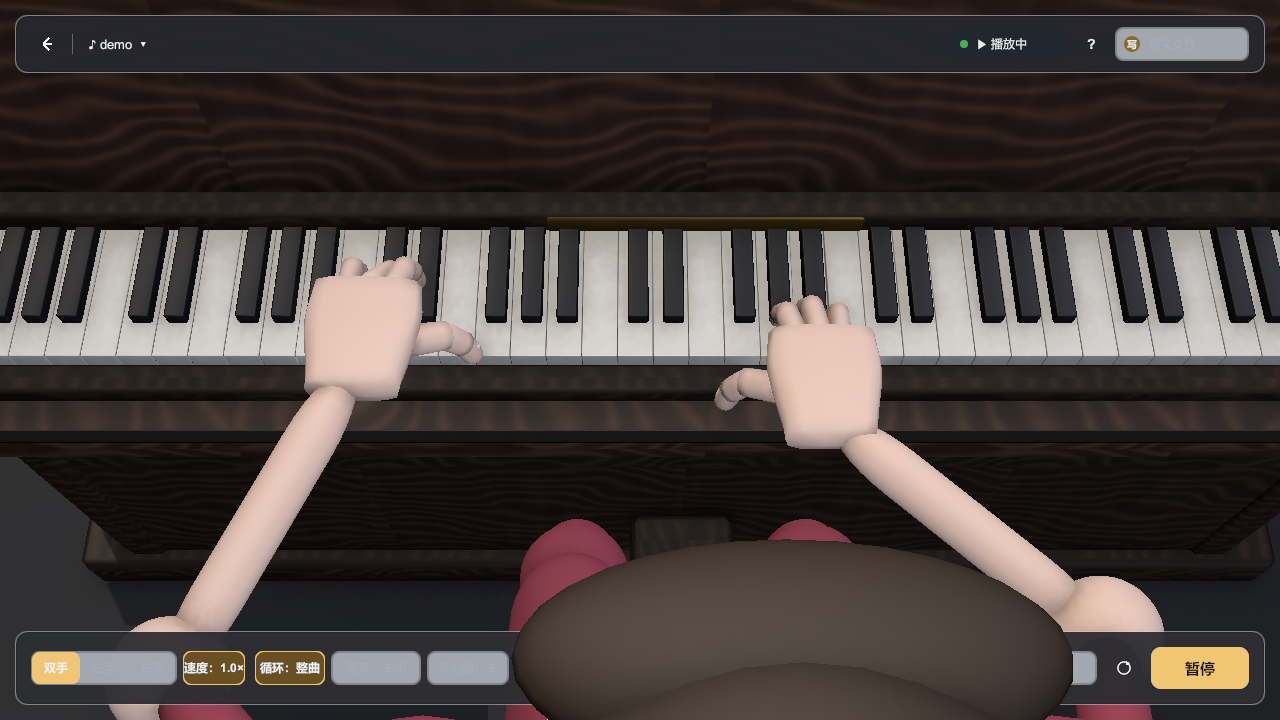
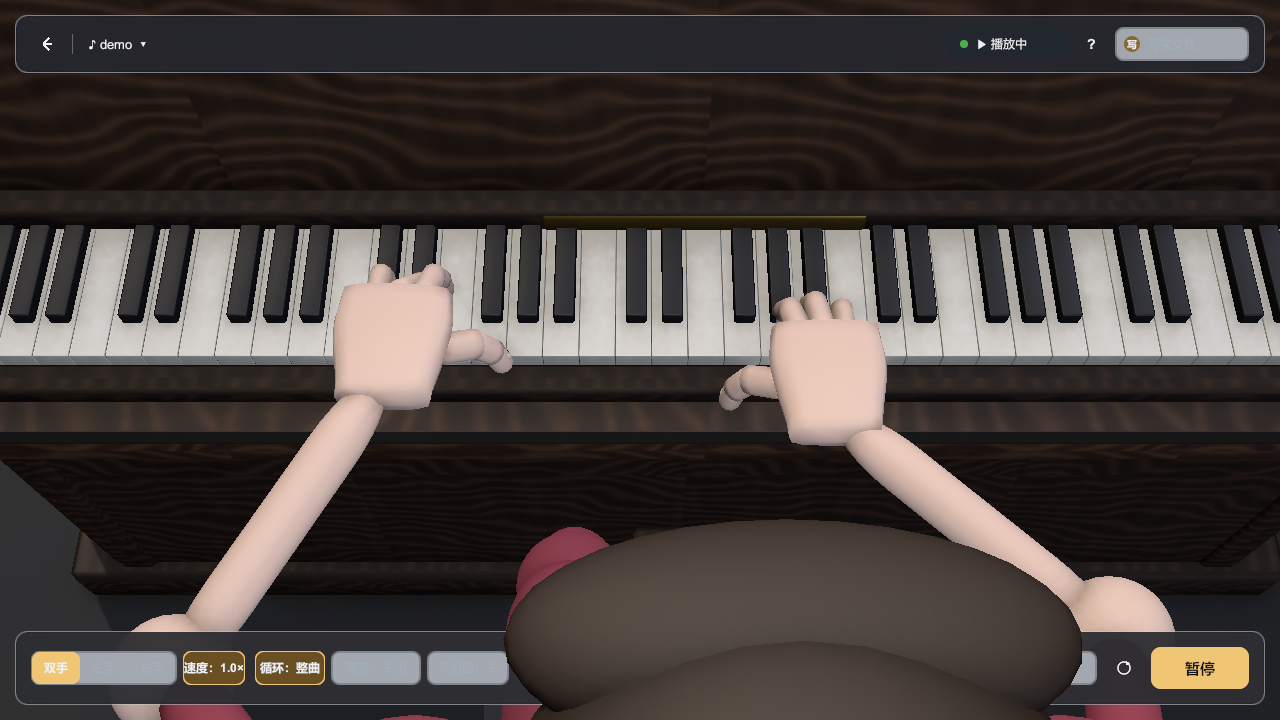
test(visual): 真人特写真实基线并记录阶段 0 结论

diff --git a/Assets/Tests/PlayMode/VisualSnapshotTests.cs b/Assets/Tests/PlayMode/VisualSnapshotTests.cs
@@ -473,6 +473,56 @@ public class VisualSnapshotTests
                 session.CurrentCharacterView != null ? session.CurrentCharacterView.CharacterId : "(null)"),
             session, cameraCtrl, avatar, timeline));
 
+        // ---- V17 / V18 / V19：真实默认角色（Rocketbox）的特写与全景 ----
+        // 为什么单独拍：生产默认 SelectedCharacterId = rocketbox.female01，但 batchmode
+        // 按设计跳过偏好，01–06 / V01–V14 拍的仍是内置角色。真人特写从未有过基线，
+        // 手部弯曲、指尖贴键、头/躯干遮挡只能靠这三张图判断。
+        session.SwitchAvatar(0);                 // 先离开外部角色，确保事务可重入
+        yield return new WaitForSeconds(0.4f);
+        if (foundProfile)
+        {
+            var reActivate = session.ActivateCharacter(rocketboxProfile);
+            Debug.Log(string.Format("[V17] Rocketbox 再次激活：成功={0} 原因={1}",
+                reActivate.Succeeded, string.IsNullOrEmpty(reActivate.Error) ? "(无)" : reActivate.Error));
+            yield return new WaitForSeconds(1.0f);
+        }
+
+        session.Stop();
+        session.ClearLoop();
+        session.SetPracticeHand(PracticeHand.Both);
+        session.SetHighlightMode(HighlightMode.Off);
+        session.SetCameraMode(CameraMode.Closeup);
+        session.Seek(0f);
+        yield return new WaitForSeconds(2.0f);
+        yield return Capture(cam, Path.Combine(dir, "V17_rocketbox_closeup_idle.png"));
+        records.Add(Snapshot("V17_rocketbox_closeup_idle.png", "v4 阶段 0 / 真实默认体验",
+            "真人角色手部特写（空闲）：手掌、五指、琴键同时可见；头/躯干不遮挡键面",
+            "Rocketbox 默认真人角色，停止态；用于判断手型与遮挡",
+            session, cameraCtrl, avatar, timeline));
+
+        float v18Time = notes.Count > 0 && NoteScan.TryFindChordTime(notes, 2, 48, 76, 0.06f, out float chord18, out _)
+            ? chord18
+            : total * 0.25f;
+        session.Seek(v18Time);
+        session.Play();
+        yield return new WaitForSeconds(0.30f);
+        yield return Capture(cam, Path.Combine(dir, "V18_rocketbox_closeup_playing.png"));
+        records.Add(Snapshot("V18_rocketbox_closeup_playing.png", "v4 阶段 0 / 真实默认体验",
+            "真人角色手部特写（演奏中，不暂停）：指节弯曲与指尖接触可见",
+            string.Format("t={0:F2}s，播放中抓帧", v18Time),
+            session, cameraCtrl, avatar, timeline));
+        session.Pause();
+
+        session.SetCameraMode(CameraMode.Full);
+        session.Stop();
+        session.Seek(0f);
+        yield return new WaitForSeconds(1.5f);
+        yield return Capture(cam, Path.Combine(dir, "V19_rocketbox_full.png"));
+        records.Add(Snapshot("V19_rocketbox_full.png", "v4 阶段 0 / 真实默认体验",
+            "真人角色全景：坐姿、琴凳、琴体、键面完整；无穿模与悬空",
+            "Rocketbox 默认真人角色，停止态",
+            session, cameraCtrl, avatar, timeline));
+
         // 复位到内置角色，避免影响后续（主菜单截图）
         session.SwitchAvatar(0);
         yield return new WaitForSeconds(0.5f);

diff --git a/Docs/screenshots/manifest.md b/Docs/screenshots/manifest.md
@@ -5,7 +5,7 @@
 > 对应文档：方案 **11.2 视觉回归**（10 个固定截图/场景用例）、**11.3/11.4 验收与自动化**、
 > **15 发布前检查清单**；审查 **3.2 视角可用性**、**6.1 画面基线组合 V01–V09**、**6.2 相机验收清单**。
 
-- 生成时间：2026-11-01 00:42:51
+- 生成时间：2026-11-01 15:46:15
 - 生成主机 Unity 版本：2022.3.22f1c1
 - 项目版本锁定值：2022.3.22f1c1（来源 ProjectSettings/ProjectVersion.txt）
 - 运行平台 / 图形设备：WindowsEditor / Direct3D11
@@ -25,26 +25,29 @@
 |---|---|---|---|---|---|---|---|---|---|---|
 | 01_full.png | 方案 11.2-2 | 写实女性（索引 0） | demo | 0.00 | 全景（Mode=Full, ModeLabel=全景）自由观察=False | 640×480（请求 1280×720） | 2022.3.22f1c1 | 2022.3.22f1c1 | 标准全景：键盘完整、低音端无遮挡、人物完整入画 | — |
 | 02_closeup.png | 方案 11.2-3 | 写实女性（索引 0） | demo | 0.00 | 手部特写（Mode=Closeup, ModeLabel=手部特写）自由观察=False | 640×480（请求 1280×720） | 2022.3.22f1c1 | 2022.3.22f1c1 | 手部特写（白键旋律）：掌心、指尖与相应琴键同时可见 | 高亮默认关闭，特写按活动手范围取景 |
-| 03_playing.png | 方案 11.2-2 | 写实女性（索引 0） | demo | 4.17 | 全景（Mode=Full, ModeLabel=全景）自由观察=False | 640×480（请求 1280×720） | 2022.3.22f1c1 | 2022.3.22f1c1 | 播放中全景：琴键动作与高亮同步、人物无穿模 | — |
-| 04_practice_left.png | 方案 11.2-6 | 写实女性（索引 0） | demo | 6.04 | 全景（Mode=Full, ModeLabel=全景）自由观察=False | 640×480（请求 1280×720） | 2022.3.22f1c1 | 2022.3.22f1c1 | 分手练习开启：相机聚焦活动手 | — |
+| 03_playing.png | 方案 11.2-2 | 写实女性（索引 0） | demo | 4.18 | 全景（Mode=Full, ModeLabel=全景）自由观察=False | 640×480（请求 1280×720） | 2022.3.22f1c1 | 2022.3.22f1c1 | 播放中全景：琴键动作与高亮同步、人物无穿模 | — |
+| 04_practice_left.png | 方案 11.2-6 | 写实女性（索引 0） | demo | 6.06 | 全景（Mode=Full, ModeLabel=全景）自由观察=False | 640×480（请求 1280×720） | 2022.3.22f1c1 | 2022.3.22f1c1 | 分手练习开启：相机聚焦活动手 | — |
 | 05_avatar_man.png | 方案 11.2-8 | 写实男性（索引 1） | demo | 7.50 | 全景（Mode=Full, ModeLabel=全景）自由观察=False | 640×480（请求 1280×720） | 2022.3.22f1c1 | 2022.3.22f1c1 | 不同人物切换后的同一机位：构图规律一致 | — |
 | 06_avatar_cartoon.png | 方案 11.2-8 | 卡通角色（索引 2） | demo | 7.50 | 全景（Mode=Full, ModeLabel=全景）自由观察=False | 640×480（请求 1280×720） | 2022.3.22f1c1 | 2022.3.22f1c1 | 不同人物切换后的同一机位：构图规律一致 | — |
-| V01_closeup_chord.png | 审查 6.1 V01 / 方案 11.2-4 | 写实女性（索引 0） | demo | 1.15 | 手部特写（Mode=Closeup, ModeLabel=手部特写）自由观察=False | 640×480（请求 1280×720） | 2022.3.22f1c1 | 2022.3.22f1c1 | 掌心、指尖、琴键可见；指法自然 | 曲内同时发声 4 音的中音区和弦（t=0.00s） |
-| V02_closeup_wide_leap.png | 审查 6.1 V02 / 3.2-1 | 写实女性（索引 0） | demo | 2.65 | 手部特写（Mode=Closeup, ModeLabel=手部特写）自由观察=False | 640×480（请求 1280×720） | 2022.3.22f1c1 | 2022.3.22f1c1 | 动态取景范围与阻尼：两手分开时画面不突然缩放 | 曲内 0.5s 窗口最大音域跨度 19 半音（pitch 48–67，t=1.50s）；内置示例曲音域有限，跨度不足属曲目内容限制 |
-| V03_full_arm_motion.png | 审查 6.1 V03 | 写实男性（索引 1） | demo | 6.62 | 全景（Mode=Full, ModeLabel=全景）自由观察=False | 640×480（请求 1280×720） | 2022.3.22f1c1 | 2022.3.22f1c1 | 坐姿、肩臂、完整键盘 | 曲内最大音程跳进 19 半音（t=3.50s），手臂运动在该片段最明显 |
-| V04_full_cartoon.png | 审查 6.1 V04 | 卡通角色（索引 2） | demo | 6.08 | 全景（Mode=Full, ModeLabel=全景）自由观察=False | 640×480（请求 1280×720） | 2022.3.22f1c1 | 2022.3.22f1c1 | 风格一致与取景适配 | 中等速度片段（曲目 40% 处） |
-| V05_left_hand_only.png | 审查 6.1 V05 / 3.2-3 | 写实女性（索引 0） | demo | 1.10 | 手部特写（Mode=Closeup, ModeLabel=手部特写）自由观察=False | 640×480（请求 1280×720） | 2022.3.22f1c1 | 2022.3.22f1c1 | 相机聚焦活动手 | 左手独立音型（t=0.00s） |
-| V06_right_hand_only.png | 审查 6.1 V06 / 3.2-4 | 写实女性（索引 0） | demo | 1.11 | 手部特写（Mode=Closeup, ModeLabel=手部特写）自由观察=False | 640×480（请求 1280×720） | 2022.3.22f1c1 | 2022.3.22f1c1 | 相机聚焦活动手 | 右手独立音型（t=0.00s） |
-| V07_free_orbit_paused.png | 审查 6.1 V07 | 写实女性（索引 0） | demo | 1.11 | 自由观察（Mode=Free, ModeLabel=自由观察）自由观察=True | 640×480（请求 1280×720） | 2022.3.22f1c1 | 2022.3.22f1c1 | 旋转/缩放、UI 鼠标操作边界 | 测试环境无法注入真实鼠标右键拖动：本图记录「进入自由观察 → 暂停」后的初始构图（进入时不跳变） |
-| V08_switch_settled.png | 审查 6.1 V08 | 写实女性（索引 0） | demo | 7.50 | 全景（Mode=Full, ModeLabel=全景）自由观察=False | 640×480（请求 1280×720） | 2022.3.22f1c1 | 2022.3.22f1c1 | 最终构图稳定、时间轴连续 | 播放中连续切换视角 5 次后等待 3s：IsTransitioning=True（期望 False）、时间从 4.69s 推进到 7.50s（时间轴连续） |
-| V09_closeup_loop.png | 审查 6.1 V09 | 写实女性（索引 0） | demo | 2.68 | 手部特写（Mode=Closeup, ModeLabel=手部特写）自由观察=False | 640×480（请求 1280×720） | 2022.3.22f1c1 | 2022.3.22f1c1 | 循环跳转后手位和相机不追旧目标 | A-B 循环 [2.63s, 3.23s]，IsLooping=True；等待跨越 B 点后再等 1.6s，此刻时间 2.66s |
+| V01_closeup_chord.png | 审查 6.1 V01 / 方案 11.2-4 | 写实女性（索引 0） | demo | 1.11 | 手部特写（Mode=Closeup, ModeLabel=手部特写）自由观察=False | 640×480（请求 1280×720） | 2022.3.22f1c1 | 2022.3.22f1c1 | 掌心、指尖、琴键可见；指法自然 | 曲内同时发声 4 音的中音区和弦（t=0.00s） |
+| V02_closeup_wide_leap.png | 审查 6.1 V02 / 3.2-1 | 写实女性（索引 0） | demo | 2.61 | 手部特写（Mode=Closeup, ModeLabel=手部特写）自由观察=False | 640×480（请求 1280×720） | 2022.3.22f1c1 | 2022.3.22f1c1 | 动态取景范围与阻尼：两手分开时画面不突然缩放 | 曲内 0.5s 窗口最大音域跨度 19 半音（pitch 48–67，t=1.50s）；内置示例曲音域有限，跨度不足属曲目内容限制 |
+| V03_full_arm_motion.png | 审查 6.1 V03 | 写实男性（索引 1） | demo | 6.65 | 全景（Mode=Full, ModeLabel=全景）自由观察=False | 640×480（请求 1280×720） | 2022.3.22f1c1 | 2022.3.22f1c1 | 坐姿、肩臂、完整键盘 | 曲内最大音程跳进 19 半音（t=3.50s），手臂运动在该片段最明显 |
+| V04_full_cartoon.png | 审查 6.1 V04 | 卡通角色（索引 2） | demo | 6.15 | 全景（Mode=Full, ModeLabel=全景）自由观察=False | 640×480（请求 1280×720） | 2022.3.22f1c1 | 2022.3.22f1c1 | 风格一致与取景适配 | 中等速度片段（曲目 40% 处） |
+| V05_left_hand_only.png | 审查 6.1 V05 / 3.2-3 | 写实女性（索引 0） | demo | 1.12 | 手部特写（Mode=Closeup, ModeLabel=手部特写）自由观察=False | 640×480（请求 1280×720） | 2022.3.22f1c1 | 2022.3.22f1c1 | 相机聚焦活动手 | 左手独立音型（t=0.00s） |
+| V06_right_hand_only.png | 审查 6.1 V06 / 3.2-4 | 写实女性（索引 0） | demo | 1.08 | 手部特写（Mode=Closeup, ModeLabel=手部特写）自由观察=False | 640×480（请求 1280×720） | 2022.3.22f1c1 | 2022.3.22f1c1 | 相机聚焦活动手 | 右手独立音型（t=0.00s） |
+| V07_free_orbit_paused.png | 审查 6.1 V07 | 写实女性（索引 0） | demo | 1.08 | 自由观察（Mode=Free, ModeLabel=自由观察）自由观察=True | 640×480（请求 1280×720） | 2022.3.22f1c1 | 2022.3.22f1c1 | 旋转/缩放、UI 鼠标操作边界 | 测试环境无法注入真实鼠标右键拖动：本图记录「进入自由观察 → 暂停」后的初始构图（进入时不跳变） |
+| V08_switch_settled.png | 审查 6.1 V08 | 写实女性（索引 0） | demo | 7.50 | 全景（Mode=Full, ModeLabel=全景）自由观察=False | 640×480（请求 1280×720） | 2022.3.22f1c1 | 2022.3.22f1c1 | 最终构图稳定、时间轴连续 | 播放中连续切换视角 5 次后等待 3s：IsTransitioning=True（期望 False）、时间从 4.68s 推进到 7.50s（时间轴连续） |
+| V09_closeup_loop.png | 审查 6.1 V09 | 写实女性（索引 0） | demo | 2.67 | 手部特写（Mode=Closeup, ModeLabel=手部特写）自由观察=False | 640×480（请求 1280×720） | 2022.3.22f1c1 | 2022.3.22f1c1 | 循环跳转后手位和相机不追旧目标 | A-B 循环 [2.63s, 3.23s]，IsLooping=True；等待跨越 B 点后再等 1.6s，此刻时间 2.65s |
 | V10_mainmenu.png | 方案 11.2-1 | 不适用（主菜单场景） | 不适用（未进入课程） | — | 不适用（主菜单场景无 CameraModeController） | 640×480（请求 1280×720） | 2022.3.22f1c1 | 2022.3.22f1c1 | 主菜单空状态可操作：导入入口可见、无曲目时不显示可播放按钮 | 曲库有 1 首示例曲 → 主菜单显示曲目卡片；空曲库态需清空 Assets/StreamingAssets/Songs 后重跑才能复现（本次未生成空状态图） |
 | V11_highlight_on.png | 方案 11.2-5 | 写实女性（索引 0） | demo | 0.43 | 全景（Mode=Full, ModeLabel=全景）自由观察=False | 640×480（请求 1280×720） | 2022.3.22f1c1 | 2022.3.22f1c1 | 颜色语义正确（暖金=预提示、左蓝/右橙=发声），且高亮不遮挡手部 | 高亮模式 Both（暖金预提示 + 蓝/橙发声）；为同时呈现两种提示，临时把预提示提前量设为 1.2s（原 0.6s，截图后还原） |
-| V12_analysis_expanded.png | 方案 11.2-7 | 写实女性（索引 0） | demo | 7.13 | 全景（Mode=Full, ModeLabel=全景）自由观察=False | 640×480（请求 1280×720） | 2022.3.22f1c1 | 2022.3.22f1c1 | 分析面板展开；动作质量默认折叠在「开发诊断」区 | 曲目分析面板展开=True、开发诊断展开=True（通过按钮 onClick 触发，未注入鼠标事件）；展开诊断后主画面仍未被过度覆盖（本次仅截图，遮挡断言见 CameraVisibilityTests 3.2-2） |
-| V13_teaching_mode.png | 新增：教学模式 / 展示模式 | 写实女性（索引 0） | demo | 1.04 | 手部特写（Mode=Closeup, ModeLabel=手部特写）自由观察=False | 640×480（请求 1280×720） | 2022.3.22f1c1 | 2022.3.22f1c1 | 教学模式：手部动画隐藏，只有被按下的琴键高亮（左手冷蓝 · 右手暖橙） | 显示模式=教学，手部可见=False，当前按下 4 个琴键、高亮 4 个琴键 |
-| V14_showcase_mode.png | 新增：教学模式 / 展示模式 | 写实女性（索引 0） | demo | 1.06 | 手部特写（Mode=Closeup, ModeLabel=手部特写）自由观察=False | 640×480（请求 1280×720） | 2022.3.22f1c1 | 2022.3.22f1c1 | 展示模式：完整手部动画（与 V13 同机位、同曲目时刻，便于逐帧对照） | 显示模式=展示，手部可见=True，当前按下 4 个琴键 |
+| V12_analysis_expanded.png | 方案 11.2-7 | 写实女性（索引 0） | demo | 7.07 | 全景（Mode=Full, ModeLabel=全景）自由观察=False | 640×480（请求 1280×720） | 2022.3.22f1c1 | 2022.3.22f1c1 | 分析面板展开；动作质量默认折叠在「开发诊断」区 | 曲目分析面板展开=True、开发诊断展开=True（通过按钮 onClick 触发，未注入鼠标事件）；展开诊断后主画面仍未被过度覆盖（本次仅截图，遮挡断言见 CameraVisibilityTests 3.2-2） |
+| V13_teaching_mode.png | 新增：教学模式 / 展示模式 | 写实女性（索引 0） | demo | 1.06 | 手部特写（Mode=Closeup, ModeLabel=手部特写）自由观察=False | 640×480（请求 1280×720） | 2022.3.22f1c1 | 2022.3.22f1c1 | 教学模式：手部动画隐藏，只有被按下的琴键高亮（左手冷蓝 · 右手暖橙） | 显示模式=教学，手部可见=False，当前按下 4 个琴键、高亮 4 个琴键 |
+| V14_showcase_mode.png | 新增：教学模式 / 展示模式 | 写实女性（索引 0） | demo | 1.05 | 手部特写（Mode=Closeup, ModeLabel=手部特写）自由观察=False | 640×480（请求 1280×720） | 2022.3.22f1c1 | 2022.3.22f1c1 | 展示模式：完整手部动画（与 V13 同机位、同曲目时刻，便于逐帧对照） | 显示模式=展示，手部可见=True，当前按下 4 个琴键 |
 | V15_rocketbox_character.png | 新增：写实角色（Rocketbox） | Rocketbox 女性（索引 0） | demo | 0.00 | 全景（Mode=Full, ModeLabel=全景）自由观察=False | 640×480（请求 1280×720） | 2022.3.22f1c1 | 2022.3.22f1c1 | 写实女性全景：皮肤与头发贴图完整、无白模、无碎片、手指自然弯曲 | 激活成功=True，角色=rocketbox.female01 |
-| V16_closeup_playing.png | 写实化三期 / 手部动态 | 写实女性（索引 0） | demo | 0.38 | 手部特写（Mode=Closeup, ModeLabel=手部特写）自由观察=False | 640×480（请求 1280×720） | 2022.3.22f1c1 | 2022.3.22f1c1 | 演奏中不暂停：指节弯曲与指尖接触可见（非冻结手型） | 曲内同时发声 4 音的中音区和弦（t=0.00s） |
+| V16_closeup_playing.png | 写实化三期 / 手部动态 | 写实女性（索引 0） | demo | 0.37 | 手部特写（Mode=Closeup, ModeLabel=手部特写）自由观察=False | 640×480（请求 1280×720） | 2022.3.22f1c1 | 2022.3.22f1c1 | 演奏中不暂停：指节弯曲与指尖接触可见（非冻结手型） | 曲内同时发声 4 音的中音区和弦（t=0.00s） |
+| V17_rocketbox_closeup_idle.png | v4 阶段 0 / 真实默认体验 | Rocketbox 女性（索引 0） | demo | 0.00 | 手部特写（Mode=Closeup, ModeLabel=手部特写）自由观察=False | 640×480（请求 1280×720） | 2022.3.22f1c1 | 2022.3.22f1c1 | 真人角色手部特写（空闲）：手掌、五指、琴键同时可见；头/躯干不遮挡键面 | Rocketbox 默认真人角色，停止态；用于判断手型与遮挡 |
+| V18_rocketbox_closeup_playing.png | v4 阶段 0 / 真实默认体验 | Rocketbox 女性（索引 0） | demo | 0.37 | 手部特写（Mode=Closeup, ModeLabel=手部特写）自由观察=False | 640×480（请求 1280×720） | 2022.3.22f1c1 | 2022.3.22f1c1 | 真人角色手部特写（演奏中，不暂停）：指节弯曲与指尖接触可见 | t=0.00s，播放中抓帧 |
+| V19_rocketbox_full.png | v4 阶段 0 / 真实默认体验 | Rocketbox 女性（索引 0） | demo | 0.00 | 全景（Mode=Full, ModeLabel=全景）自由观察=False | 640×480（请求 1280×720） | 2022.3.22f1c1 | 2022.3.22f1c1 | 真人角色全景：坐姿、琴凳、琴体、键面完整；无穿模与悬空 | Rocketbox 默认真人角色，停止态 |
 
 ## 如何新增 / 更新基线
 

diff --git a/Docs/upgrade-2026-11-01.md b/Docs/upgrade-2026-11-01.md
@@ -1,0 +1,39 @@
+# v4 全面升级执行记录（2026-11-01）
+
+> 分支：`feature/v4-full-upgrade`
+> 设计：`docs/superpowers/specs/2026-11-01-v4-full-upgrade-design.md`
+> 计划：`docs/superpowers/plans/2026-11-01-v4-phase0-1-visual.md`
+
+## 阶段 0：真实默认体验基线
+
+### 新增截图
+
+| 文件 | 内容 |
+|---|---|
+| `V17_rocketbox_closeup_idle.png` | 真人角色手部特写（停止态） |
+| `V18_rocketbox_closeup_playing.png` | 真人角色手部特写（播放中，不暂停） |
+| `V19_rocketbox_full.png` | 真人角色全景 |
+
+### 采集结果
+
+- 编译 **0 错误 0 警告**；EditMode **473/473**；PlayMode **124 通过 + 5 跳过 + 0 失败**。
+- `--visual` 生成 **25 张**截图（原 22 + V17/V18/V19）。
+- Rocketbox 激活成功（`V15`/`V17` 日志均为 `成功=True`），未出现贴图/骨架回退。
+
+### 人工核对结论
+
+| 项 | 结论 | 证据 |
+|---|---|---|
+| 头/躯干遮挡 | **良好**：特写中看不到头部，肩部也不入画；腿/牛仔裤占据画面底部一小块，可接受 | V17/V18 |
+| 手型自然度 | **不合格**：空闲时双手五指张开、几乎伸直，呈"伸手/爪状"，不是弹琴的 C 形手；左右手在中央靠得很近 | V17 裁剪图 |
+| 指尖贴键 | **不合格**：V18 与 V17 几乎一致，看不出按键时指节弯曲；双手整体悬在键面上方 | V18 |
+| 坐姿/琴凳 | **可接受**：臀部落在凳面、双脚落地、无明显穿模 | V19 |
+| 场景 | **仍像测试场**：无墙/窗/地毯/乐谱；右侧为纯黑虚空 | V19 |
+
+### 下一步（阶段 1 调整）
+
+1. **先修真人静止手型**：新增 `RocketboxRestPoseTests`，量化"相位 / PIP 弯曲 / 指尖离键高度"；
+   若静止 C 形手没有作用到导入骨架，优先修 `FingerPoseController` + `ImportedFingerJointAxes` 链路，
+   再谈相机与场景。
+2. 特写构图无需先改：V17/V18 已无头部遮挡；保留现状，等手型修好后再复核。
+3. 琴房环境、乐谱、主菜单按计划继续。
